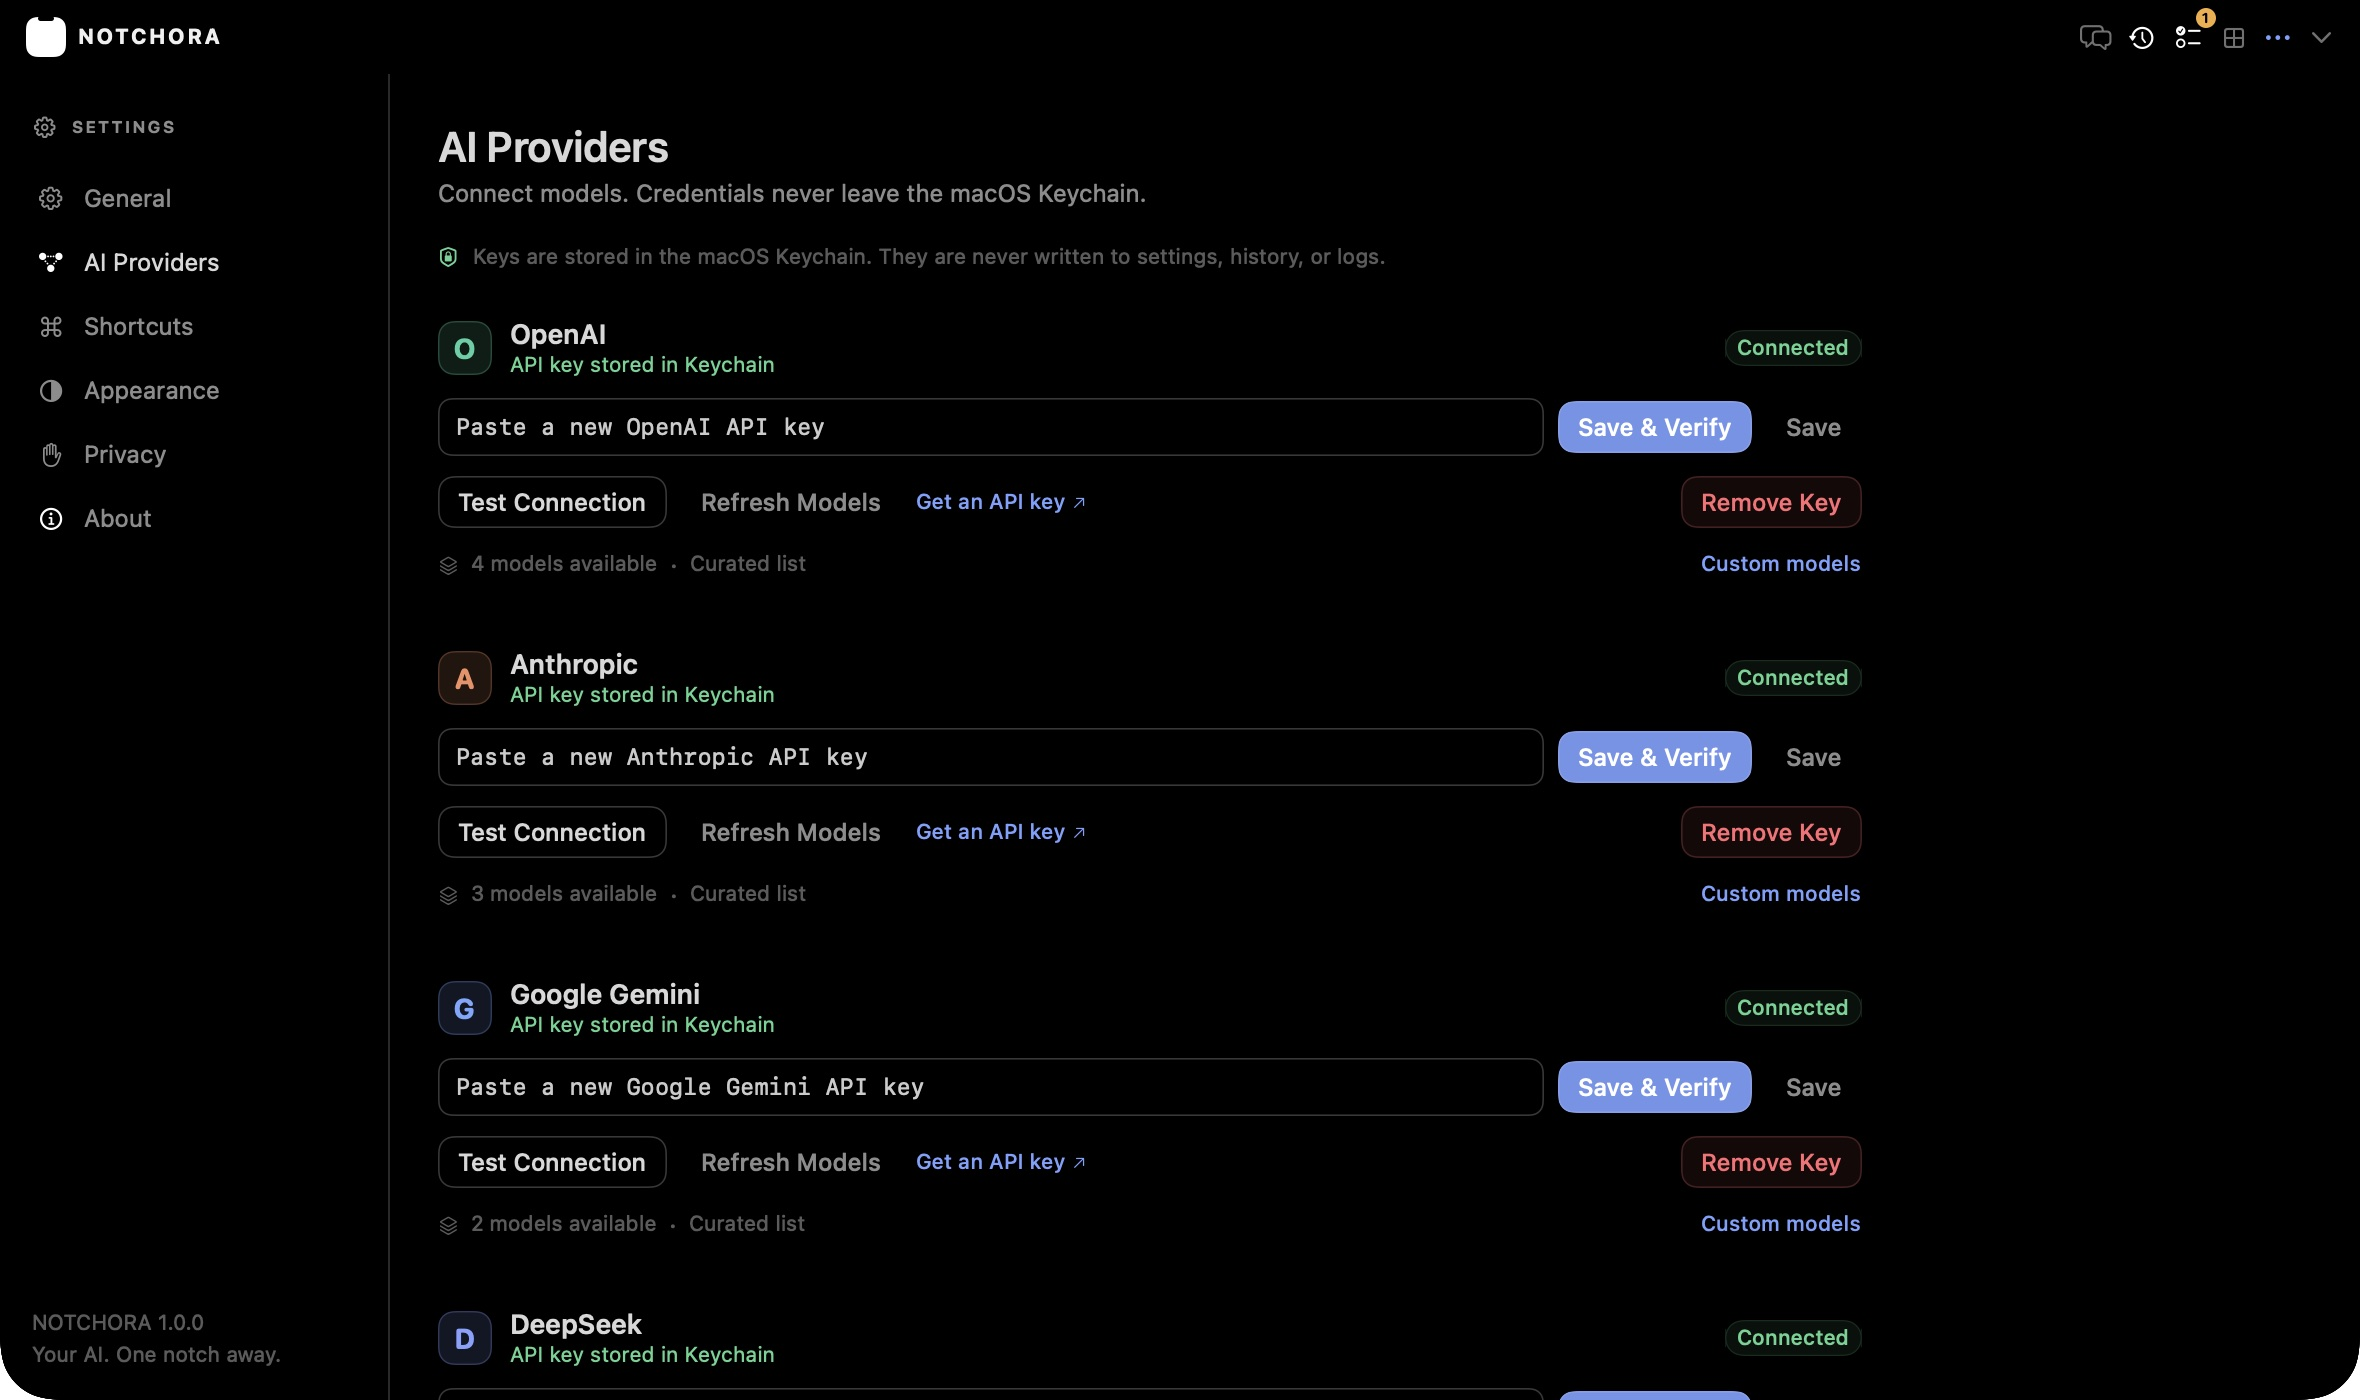
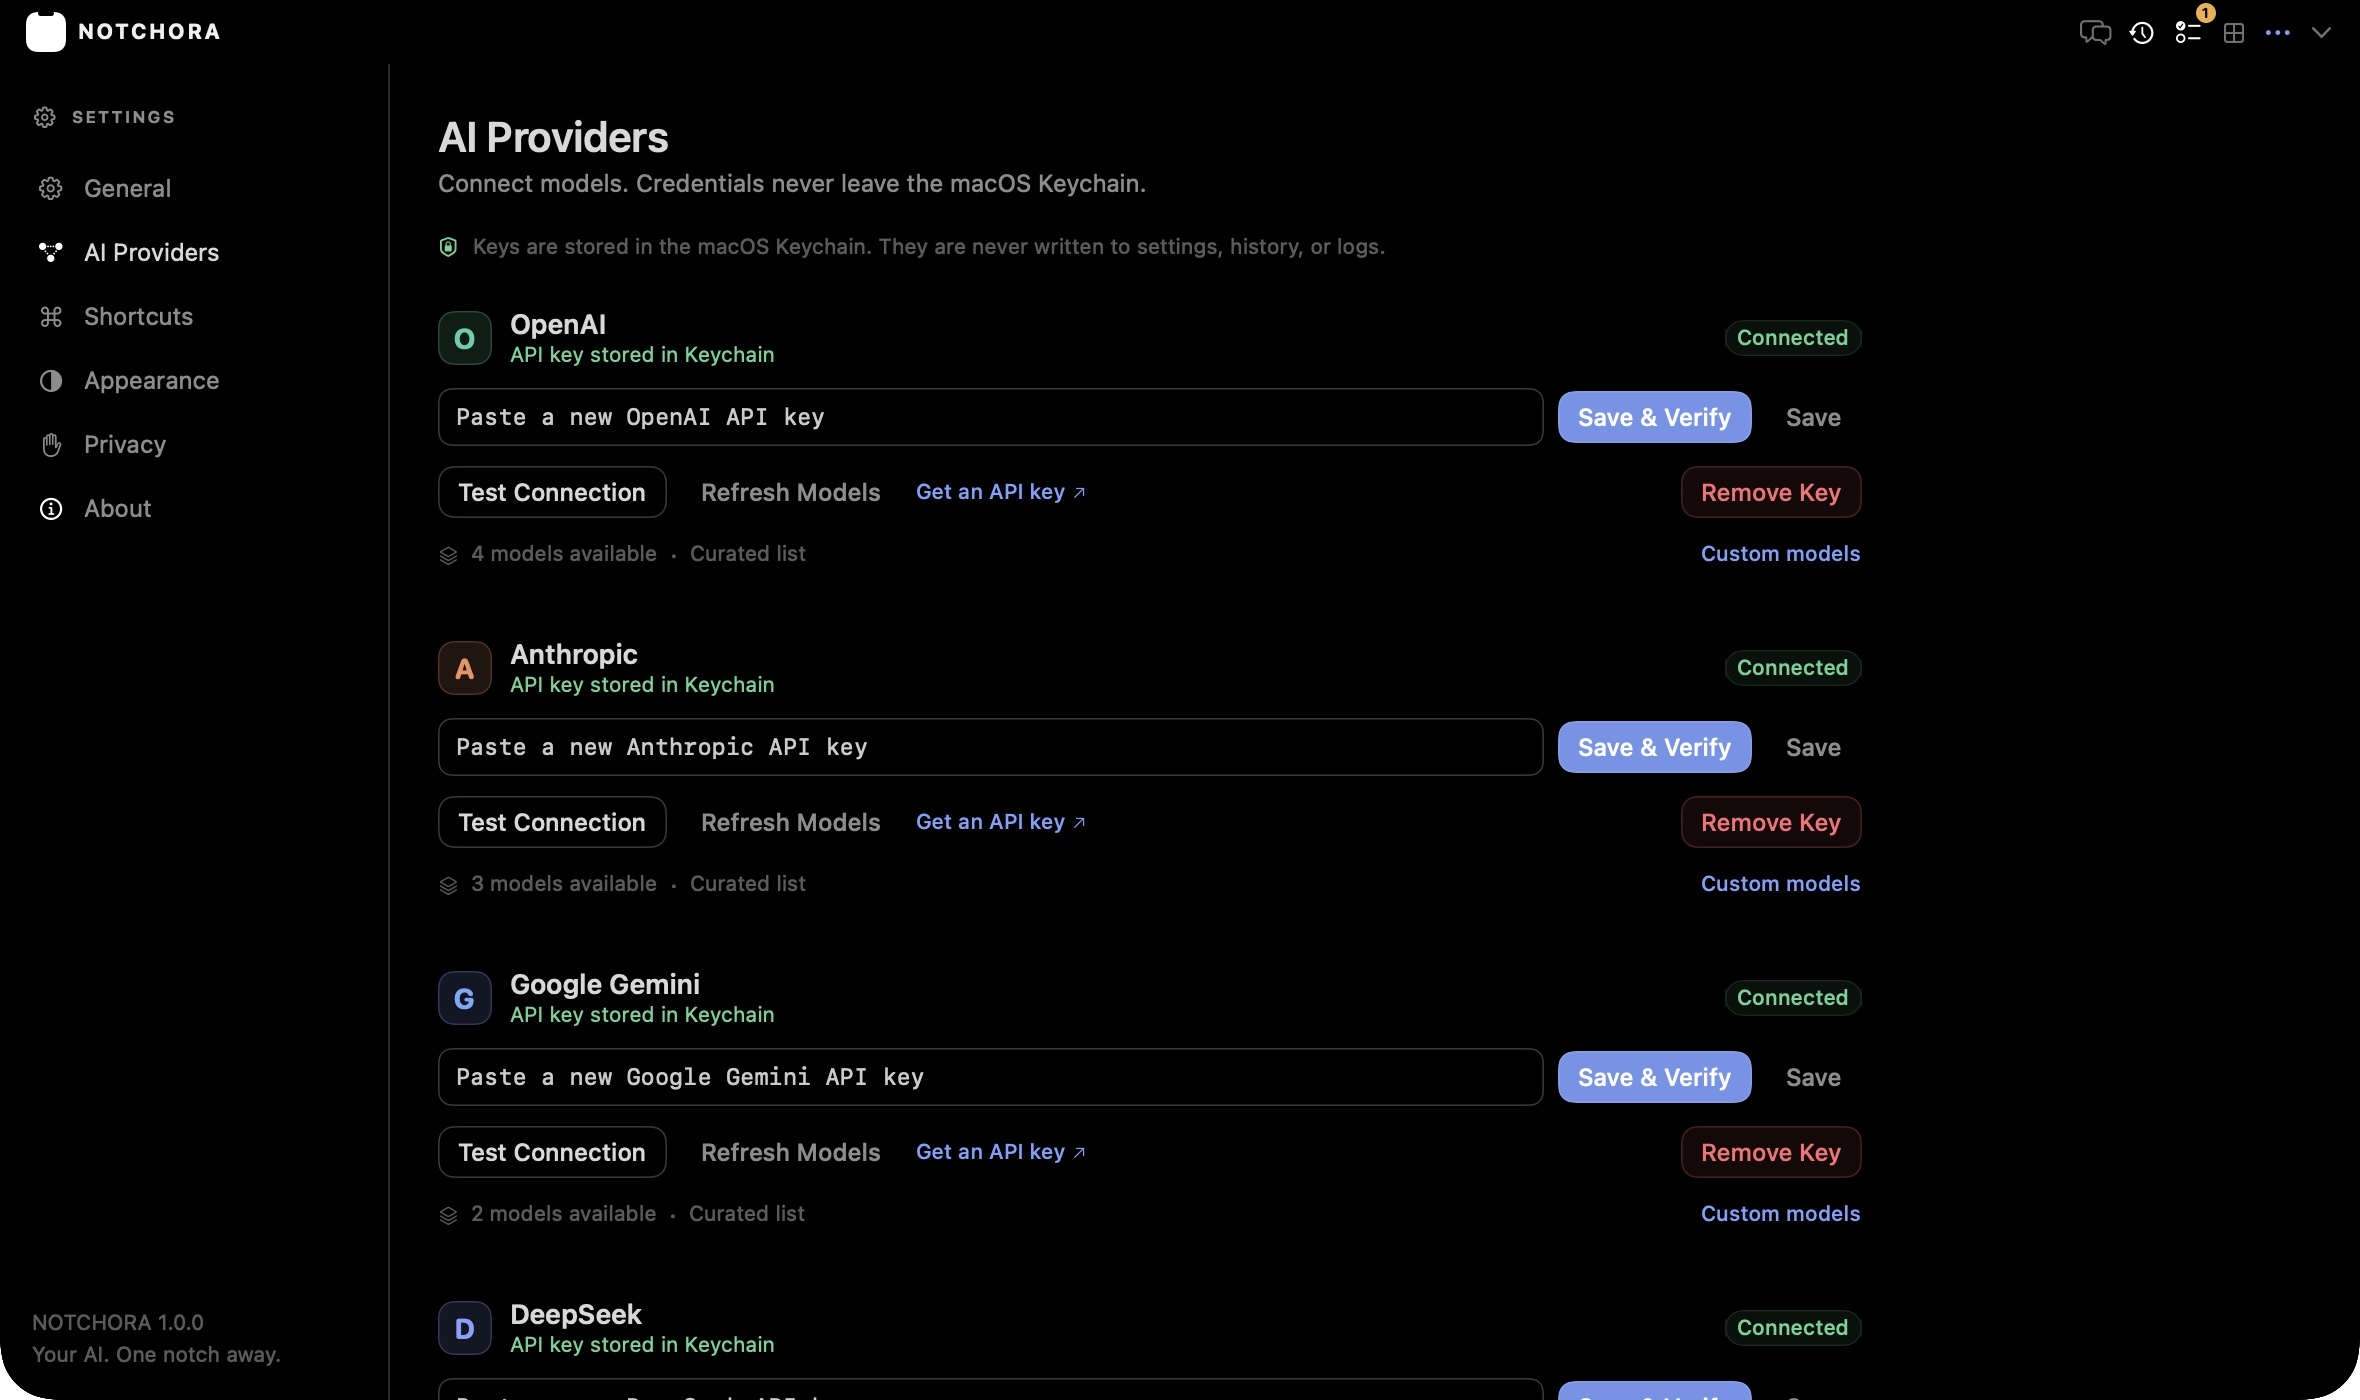
Stop the compact notch from protruding
Use the measured 32 pt safe-area height and an 8 pt lower radius so the closed surface is exactly the hardware cutout instead of extending five points below it.

Refresh the QA screenshots and add a step-by-step user guide.

diff --git a/Sources/NotchoraApp/Notch/NotchGeometry.swift b/Sources/NotchoraApp/Notch/NotchGeometry.swift
@@ -26,7 +26,7 @@ final class NotchEnvironment {
         hasPhysicalNotch = screen.safeAreaInsets.top > 0 && left != nil && right != nil
         isFallback = !hasPhysicalNotch
         notchWidth = detectedWidth
-        topRailHeight = max(screen.safeAreaInsets.top, hasPhysicalNotch ? 37 : 0)
+        topRailHeight = max(screen.safeAreaInsets.top, hasPhysicalNotch ? 32 : 0)
         screenWidth = screen.frame.width
         screenHeight = screen.frame.height
         screenName = screen.localizedName
@@ -35,7 +35,7 @@ final class NotchEnvironment {
 
 @MainActor
 enum NotchGeometry {
-    static let compactHeightWithNotch: CGFloat = 37
+    static let compactHeightWithNotch: CGFloat = 32
     static let fallbackCompactHeight: CGFloat = 34
     static let expandedSize = CGSize(width: 860, height: 540)
     static let workspaceSize = CGSize(width: 1180, height: 700)

diff --git a/Sources/NotchoraApp/Notch/NotchRootView.swift b/Sources/NotchoraApp/Notch/NotchRootView.swift
@@ -159,7 +159,7 @@ struct NotchRootView: View {
         if model.presentation == .compact {
             return NotchSurfaceShape(
                 topRadius: environment.hasPhysicalNotch ? 0 : 17,
-                bottomRadius: environment.hasPhysicalNotch ? 10 : 17
+                bottomRadius: environment.hasPhysicalNotch ? 8 : 17
             )
         }
         return NotchSurfaceShape(
@@ -390,7 +390,7 @@ struct ExpandedRail: View {
     var workspace: Bool
 
     private var railHeight: CGFloat {
-        environment.hasPhysicalNotch ? max(environment.topRailHeight, 37) : 40
+        environment.hasPhysicalNotch ? max(environment.topRailHeight, 32) : 40
     }
 
     var body: some View {

diff --git a/USER_GUIDE.md b/USER_GUIDE.md
@@ -1,0 +1,137 @@
+# NOTCHORA — Step-by-step guide
+
+## 1. Open the app
+
+Install and launch `NOTCHORA.app`. On first launch the notch surface expands and shows the welcome screen.
+
+The compact state is **exactly the physical MacBook notch**: no ears, chin, logo, or status line. Because there are no extra software pixels, use one of these reliable ways to open it:
+
+- press **⌥Space**;
+- click the NOTCHORA item in the menu bar and choose **Open NOTCHORA**;
+- click or hover the cutout area itself. NOTCHORA watches only the pointer position in a small zone around the cutout; this is optional and may depend on how macOS delivers pointer events over the camera housing.
+
+The surface stretches horizontally out of the notch and settles into the expanded workspace. Press **Esc** or click outside to collapse.
+
+## 2. Connect an AI provider
+
+1. Open **Settings → AI Providers**. Use **⌘,** or the menu-bar item.
+2. Choose a card: **OpenAI**, **Anthropic**, **Google Gemini**, or **DeepSeek**.
+3. Paste the API key into the provider’s field.
+4. Click **Save & Verify**. The app validates the key by listing models.
+5. Click **Refresh Models** to replace the curated list with the provider’s current models.
+6. Use the rail’s **Chat** icon to return to the conversation.
+
+Keys are stored only in the macOS Keychain. They are never written to settings, history, or logs.
+
+Provider key pages:
+
+- OpenAI: <https://platform.openai.com/api-keys>
+- Anthropic: <https://console.anthropic.com/settings/keys>
+- Google AI Studio: <https://aistudio.google.com/app/apikey>
+- DeepSeek: <https://platform.deepseek.com/api_keys>
+
+DeepSeek is text-only. Image attachments and screen capture are blocked while a DeepSeek model is active.
+
+## 3. Chat
+
+1. Open the model picker in the chat header and choose a provider/model.
+2. Type in the composer and press **Return** to send.
+3. **Shift+Return** inserts a newline.
+4. Use the stop control to cancel a stream; partial output stays visible.
+5. Copy, regenerate, pin, rename, or delete the conversation from the header and message actions.
+6. Open **History** from the rail to search all conversations.
+7. Use **Settings → General** to change the default provider/model, response behavior, and notch settings.
+
+## 4. Multi-AI and Compare Answers
+
+1. Open **Multi-AI** from the rail.
+2. Select two or more provider/models with connected keys.
+3. Send one prompt; each model streams independently.
+4. Cancel or retry individual answers.
+5. Use **Compare** to ask a chosen model for an agreement/tension summary. It is explicitly labelled as model-generated, not a fact check.
+
+## 5. Handoff
+
+1. In a conversation, click **Handoff**.
+2. Choose **Full conversation**, **Selected messages**, or **Summary**.
+3. Pick the target provider/model.
+4. Review the editable transferred context.
+5. Optionally enable **Continue automatically**.
+6. Click **Hand off**.
+
+## 6. Voice Mode
+
+1. Press **⌥V** or click the waveform in the composer.
+2. Grant Microphone and Speech Recognition permission when macOS asks.
+3. Speak; press the control to stop and send.
+4. Enable **Speak replies** to hear answers.
+5. The microphone is active only while listening.
+
+## 7. Add context
+
+- **Selected text:** select text in another app and press **⌥S**, or choose **Ask Selected Text** from the composer plus menu. Accessibility permission is required.
+- **Clipboard:** choose **Use Clipboard Text** from the plus menu. Nothing is polled in the background.
+- **Screen capture:** choose **Capture Screen…**, select full screen, current window, or a dragged area, then press **Capture**. Screen Recording permission is required; macOS may ask for a restart.
+- Screen images are sent only to vision-capable models. DeepSeek is text-only.
+
+## 8. Tasks, workflows, and AI apps
+
+- **Tasks:** background generations survive panel collapse. Open **Tasks** to inspect running/completed/failed work, cancel, copy results, or clear finished tasks.
+- **Workflows:** create a sequence of model steps with prompts and optional system prompts. Run it from the workflow list; results are saved to history.
+- **AI Apps:** add installed applications, open or switch to them, and manage custom entries from the grid.
+
+## 9. Settings
+
+Use **⌘,** or the menu-bar item. Settings opens inside the notch workspace:
+
+- **General:** launch at login, menu-bar item, default action, default provider/model, hover behavior, display choice.
+- **AI Providers:** API keys, validation, model refresh, custom model IDs.
+- **Shortcuts:** change the six global actions, enable/disable, reset, see registration conflicts.
+- **Appearance:** system/light/dark for menus and AppKit controls, density, animation preference. The notch surface itself always stays opaque black to match the hardware cutout.
+- **Privacy:** permission status, history limits, delete conversations, delete all local data, remove all API keys.
+- **About:** version and product information.
+
+## 10. Permissions
+
+Grant only what you use in **System Settings → Privacy & Security**:
+
+- **Microphone** — Voice Mode.
+- **Speech Recognition** — transcription.
+- **Accessibility** — reading the text you explicitly selected.
+- **Screen Recording** — capturing the screen for an image attachment.
+
+If selected text is unavailable, use the Clipboard fallback. NOTCHORA never simulates copy keystrokes.
+
+## 11. Data and privacy
+
+- API keys: Keychain service `com.notchora.app.credentials`.
+- Local state: `~/Library/Application Support/NOTCHORA/state.json`, file mode `0600`.
+- No analytics or telemetry.
+- No hidden clipboard, microphone, or screen capture.
+- Delete keys and local data under **Settings → Privacy**.
+- While compact, NOTCHORA checks only the current pointer position around the cutout to support click/hover opening; it does not store or send pointer history.
+
+## 12. Default shortcuts
+
+| Action | Shortcut |
+|---|---|
+| Open / collapse | `⌥Space` |
+| New Chat | `⌥N` |
+| Voice Mode | `⌥V` |
+| Ask Selected Text | `⌥S` |
+| Multi-AI | `⌥M` |
+| Hide Panel | `⌥.` |
+
+Change them in **Settings → Shortcuts**. A shortcut without Command, Option, or Control is rejected.
+
+## 13. Troubleshooting
+
+- **The notch looks slightly larger than the hardware** — compact is measured from `safeAreaInsets.top` and the auxiliary top areas; on the test 14-inch display this is 185×32 pt. If your Mac needs an inset, report the display model and a screenshot.
+- **Nothing happens when clicking the notch** — use **⌥Space** or the menu-bar item; the exact hardware cutout may not deliver pointer events on every Mac.
+- **No API key banner** — connect the selected provider in Settings.
+- **Invalid key** — verify the key, provider, and **Test Connection**.
+- **Rate limit** — wait, retry, or switch model/provider.
+- **Screen capture fails** — grant Screen Recording, restart, and ensure the target window is visible.
+- **Launch at login unavailable** — install the app in `/Applications` and approve the login item.
+
+See [README.md](README.md), [INSTALLATION.md](INSTALLATION.md), [PRIVACY.md](PRIVACY.md), [TESTING.md](TESTING.md), and [LIMITATIONS.md](LIMITATIONS.md) for deeper documentation.

diff --git a/QA.md b/QA.md
@@ -104,20 +104,20 @@ Generated by `./Scripts/visual-qa.sh` from the debug-only `QAHarness`. The app c
 A representative run reports:
 
 ```text
-Notch shape OK: 1720×1080, surface 629...1090×0...141, opaque black, welded and centered, rounded bottom
-Notch shape OK: 1720×1080, surface 257...1462×0...696, opaque black, welded and centered, rounded bottom
-Notch shape OK: 370×74, surface 0...369×0...73, opaque black, welded and centered, rounded bottom
+Notch shape OK: 1720×1080, surface 629...1090×0...132, opaque black, welded and centered, rounded bottom
+Notch shape OK: 1720×1080, surface 263...1456×0...683, opaque black, welded and centered, rounded bottom
+Notch shape OK: 370×64, surface 0...369×0...63, opaque black, welded and centered, rounded bottom
 ```
 
 The white area in the preview of a mid-animation PNG is alpha-0 transparency outside the rounded surface; it is not a white window background. The black surface itself is alpha 255.
 
 ## Layout checks
 
-- Compact surface on the test MacBook: 185 × 37 pt, exactly the measured hardware notch; no ears, chin, logo, line, or counter.
+- Compact surface on the test MacBook: 185 × 32 pt, exactly the measured hardware notch; no ears, chin, logo, line, or counter.
 - Expanded surface: 860 × 540 pt, wider and shorter than the previous panel.
 - Full workspace: 1180 × 700 pt.
 - Surface top edge: exact display top edge.
-- Compact bottom radius: 10 pt (matching the cutout); expanded/workspace bottom radius: 28 pt.
+- Compact bottom radius: 8 pt (matching the cutout); expanded/workspace bottom radius: 28 pt.
 - Retina capture: 2× backing scale; repository images are downsampled.
 - Window container is enlarged before the surface grows and trimmed after it settles, so the surface is never clipped by the window.
 

diff --git a/TESTING.md b/TESTING.md
@@ -143,7 +143,7 @@ The script fails if any expected screenshot is missing or empty, if global short
 
 ### Visual QA observations
 
-- The compact surface is exactly the measured hardware notch rectangle (185×37 pt on the test MacBook), with no ears, chin, logo, line, or activity counter. The software surface is intentionally invisible; opening is via the shortcut, menu-bar item, or the cutout area where pointer events reach the panel.
+- The compact surface is exactly the measured hardware notch rectangle (185×32 pt on the test MacBook), with no ears, chin, logo, line, or activity counter. The software surface is intentionally invisible; opening is via the shortcut, menu-bar item, or the cutout area where pointer events reach the panel.
 - Expanded onboarding, chat, history, tasks, workflows, and Multi-AI layouts were inspected at 860×540 points.
 - The workspace was inspected at 1180×700 points.
 - The surface was captured at 70 ms, 170 ms, 350 ms, and settled during expansion, and at 80/200/400 ms during collapse. A Swift validator confirms that every sampled surface edge is opaque black, the top edge is welded, the growing shape stays horizontally centered, and the lower corners are transparent.

diff --git a/ARCHITECTURE.md b/ARCHITECTURE.md
@@ -79,7 +79,7 @@ The panel is only a transparent container. Inside it, `NotchRootView` renders th
 - compact, expanded, and workspace surface sizes;
 - the window container frame used while the shape animates.
 
-On notched displays the compact surface is exactly the measured hardware notch rectangle (width and safe-area height), with the same black fill and a 10 pt lower-corner radius. It adds no clickable ears or chin. On displays without a notch, a compact black pill is positioned just below the menu bar with rounded top and bottom corners.
+On notched displays the compact surface is exactly the measured hardware notch rectangle (width and safe-area height), with the same black fill and a 8 pt lower-corner radius. It adds no clickable ears or chin. On displays without a notch, a compact black pill is positioned just below the menu bar with rounded top and bottom corners.
 
 Expansion saves the previously frontmost app, activates NOTCHORA so text fields and VoiceOver are reliable, and restores the previous app on collapse only when NOTCHORA is still frontmost. This avoids focus theft while keeping the panel usable.
 

diff --git a/README.md b/README.md
@@ -149,6 +149,7 @@ NOTCHORA/
 ├── Scripts/                 # build, icon generation, visual QA
 ├── Resources/Info.plist
 ├── Docs/                    # screenshots and supporting documentation
+├── USER_GUIDE.md
 ├── ARCHITECTURE.md
 ├── INSTALLATION.md
 ├── TESTING.md
@@ -179,7 +180,7 @@ swift test
 ./Scripts/visual-qa.sh
 ```
 
-See [TESTING.md](TESTING.md) for the full test matrix and manual QA checklist.
+See [USER_GUIDE.md](USER_GUIDE.md) for step-by-step usage and [TESTING.md](TESTING.md) for the full test matrix and manual QA checklist.
 
 ## Security and privacy
 
